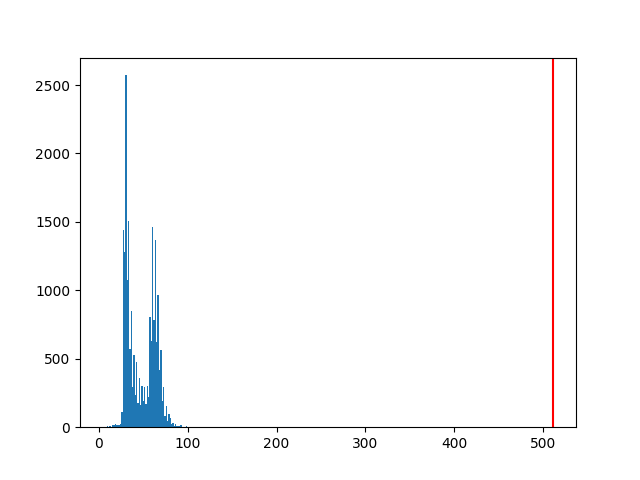
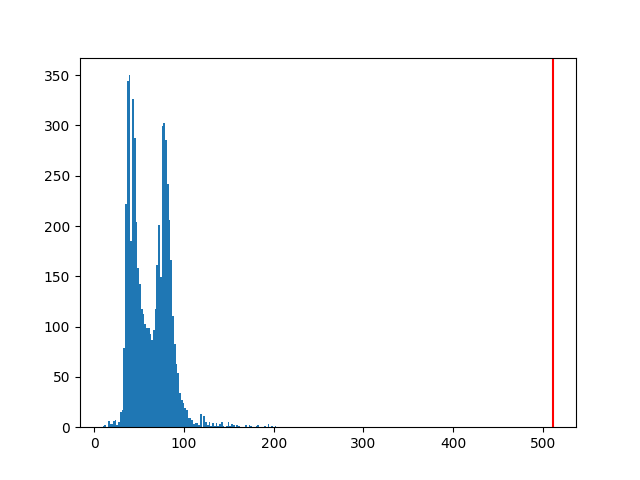
Add files via upload

diff --git a/data_gathering/utils/topic_model_filtering.py b/data_gathering/utils/topic_model_filtering.py
@@ -18,6 +18,13 @@ import json
 import torch
 from sentence_transformers import SentenceTransformer
 from clean_text import clean_text
+from wordcloud import WordCloud
+from nltk.stem import PorterStemmer, WordNetLemmatizer
+from nltk.corpus import stopwords
+from sklearn.cluster import KMeans
+from sklearn.metrics import silhouette_score
+from sklearn.decomposition import PCA
+
 
 print(f"torch.cuda.is_available(): {torch.cuda.is_available()}")
 
@@ -30,7 +37,7 @@ def get_params():
                 # TFIDF
                 "reduce_frequent_words": True, "bm25_weighting": True,   
                 "seed_words": PARAMS["seed_words"],
-                "seed_multiplier": 6,
+                "seed_multiplier": 10,
                 # UMAP
                 "n_neighbors": 10, "n_components": 5, "min_dist": 0.0, "metric_umap": "cosine", "random_state": 42,
                 # HDBSCAN (change min_cluster_size for more/less topics?, default is 10, recommended to only increase above 10)
@@ -41,6 +48,7 @@ def get_params():
                 "diversity": 0.7
             }
     return params
+
 
 def train_model():
     save_path =  PARAMS["topic_model_save"]
@@ -99,15 +107,88 @@ def train_model():
     topic_model.save(save_path, serialization="safetensors", save_ctfidf=True, save_embedding_model=embedding_model)
 
     dataset["topic"] = topics
-    topic_interested = []
-    for idx, row in topic_model.get_topic_info().iterrows():
-        if any(i in row["Name"] for i in params['seed_words']):
-            topic_interested.append(int(row["Topic"]))
-    dataset_roberta = dataset[dataset["topic"].isin(topic_interested)]
-    print(f"Filtered size: {len(dataset_roberta)}")
 
-    Dataset.from_pandas(dataset_roberta.drop(columns="text_cleaned")).save_to_disk(data_path+"_filtered")
+    Dataset.from_pandas(dataset.drop(columns="text_cleaned")).save_to_disk(data_path+"_filtered")
+
+def knn_clustering(dataset):
+    data_path = f'{PARAMS["roberta_data_path"]}_{PARAMS["word_window"]}_filtered'
+
+    stemmer = PorterStemmer()
+    lemmatizer = WordNetLemmatizer()
+    stop_words = set(stopwords.words('english'))
+
+    def clean_text_(text):
+        text = clean_text(text)
+        text = re.sub(r'[^a-zA-Z\s]', '', text)  # Remove punctuation and numbers
+        text = text.lower()  # Convert to lowercase
+        words = text.split()  # Split into words
+        words = [word for word in words if word not in stop_words]  # Remove stop words
+        return ' '.join(words)
+
+    def normalize_text(text, method='lemmatization'):
+        words = text.split()
+        if method == 'stemming':
+            words = [stemmer.stem(word) for word in words]
+        elif method == 'lemmatization':
+            words = [lemmatizer.lemmatize(word) for word in words]
+        return ' '.join(words)
+
+    def preprocess_text(text, method='lemmatization'):
+        text = clean_text_(text)
+        text = normalize_text(text, method)
+        return text
+    
+    embedding_model = SentenceTransformer(PARAMS["sentence_model"], model_kwargs={"torch_dtype": "float16"}, device="cuda")
+    dataset["text_cleaned"] = [preprocess_text(x) for x in dataset["text"]]
+    embeddings = embedding_model.encode(list(dataset["text_cleaned"]) , show_progress_bar=True)
+
+    def perform_kmeans_clustering(embeddings, n_clusters=5):
+        kmeans = KMeans(n_clusters=n_clusters, random_state=42)
+        cluster_labels = kmeans.fit_predict(embeddings)
+
+        silhouette_avg = silhouette_score(embeddings, cluster_labels)
+        print(f"K-Means clustering with {n_clusters} clusters: Silhouette Score = {silhouette_avg}")
+
+        return cluster_labels, silhouette_avg, kmeans
+    kmeans_labels, kmeans_silhouette, kmeans_model = perform_kmeans_clustering(embeddings, n_clusters=4)
+
+    dataset["label_knn"] = kmeans_labels
+    label_to_keep = []
+
+    for x in dataset["label_knn"].unique():
+        df = dataset[dataset["label_knn"]==x]
+        print(f"CLuster size: ", len(df))
+        t = list(df.head()["text"])
+        all_texts = " ".join(list(df["text_cleaned"]))
+        text = ' '.join(word for word in all_texts.split() if word not in stop_words)
+        wordcloud = WordCloud(width=800, height=400, background_color='white').generate(text)
+        top_10 = [v for v in wordcloud.words_.keys()][:10]
+        print(", ".join(top_10))
+        if "sea" in top_10:
+            label_to_keep.append(x)
+
+    return dataset, label_to_keep
+    
+def filter():
+    save_path =  PARAMS["topic_model_save"]
+    data_path = f'{PARAMS["roberta_data_path"]}_{PARAMS["word_window"]}_filtered'
+    embedding_model = SentenceTransformer(PARAMS["sentence_model"], model_kwargs={"torch_dtype": "float16"}, device="cuda")
+    
+    dataset = Dataset.load_from_disk(data_path).to_pandas().reset_index(drop=True)
+
+    # most common topic from bertopic should be relating to sea
+    dataset = dataset[dataset["topic"].isin([0])]
+
+    # knn filtering
+    if PARAMS["bKnn"].lower() == "true":
+        dataset, label_to_keep = knn_clustering(dataset=dataset)
+        dataset = dataset[dataset["label_knn"].isin(label_to_keep)].drop(columns=["label_knn", "text_cleaned"])
+        
+    print(f"Filtered size: {len(dataset)}")
+    Dataset.from_pandas(dataset).save_to_disk(data_path)
+    print(f"saved at {data_path}")
 
 if __name__ == '__main__':
 
     train_model()
+    filter()
